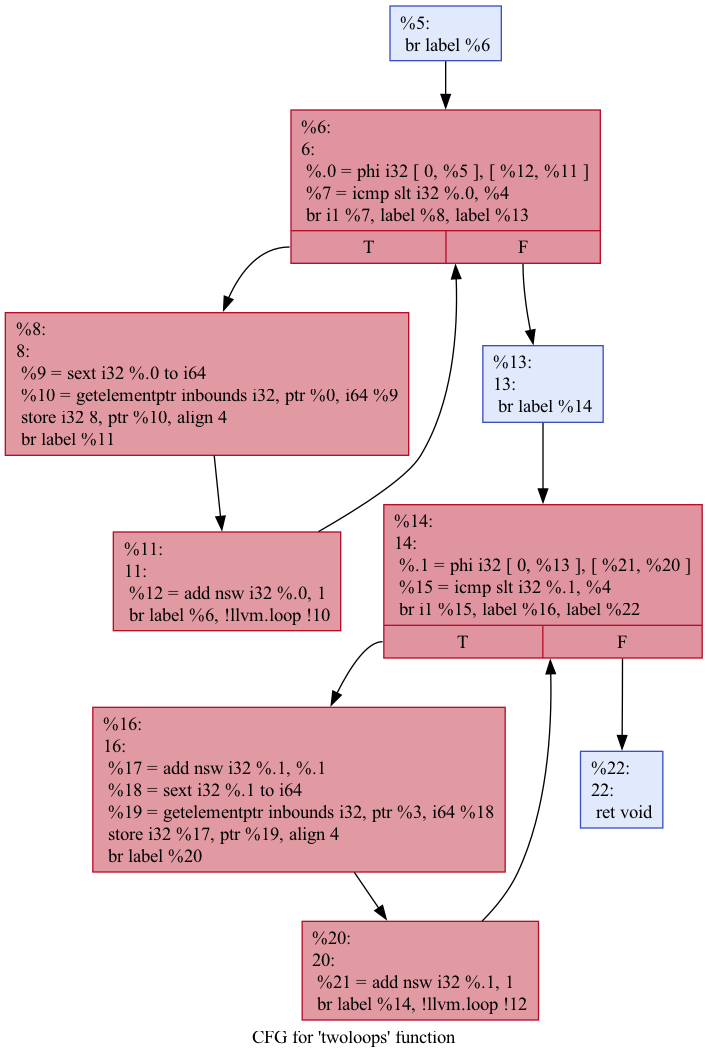
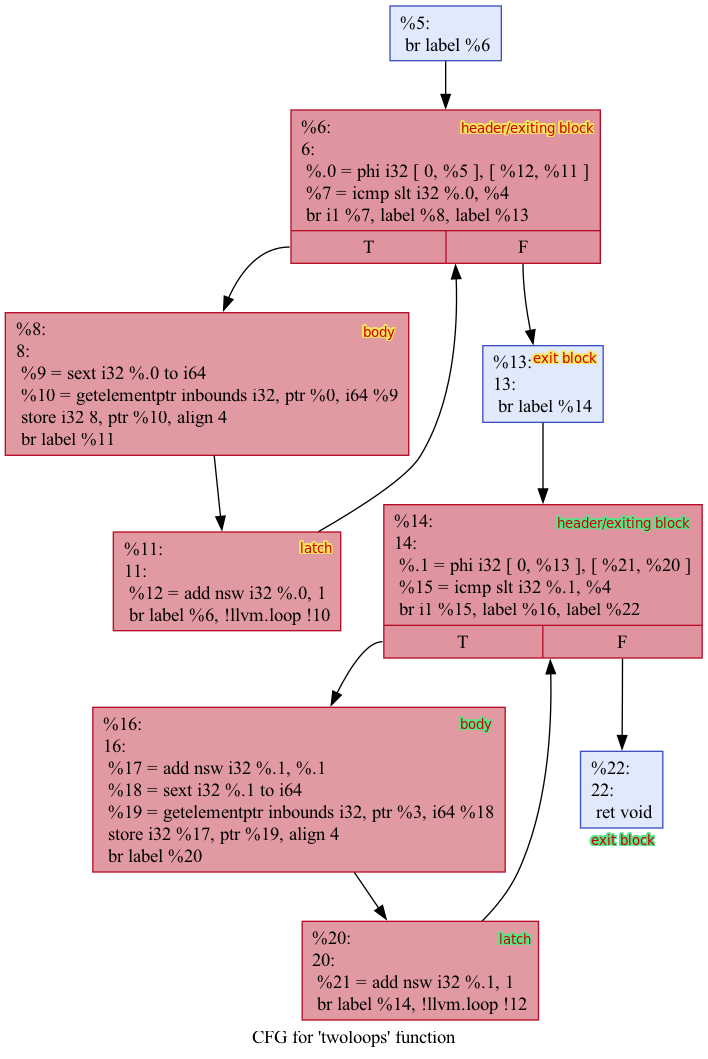
Add definitive version of Loop Fusion Pass on LoopPasses.cpp

diff --git a/Back-End/Esercitazioni/Assignment_4/LoopPasses.cpp b/Back-End/Esercitazioni/Assignment_4/LoopPasses.cpp
@@ -1,4 +1,4 @@
-#include "llvm/Transforms/Utils/LoopFusionPass.h"
+#include "llvm/Transforms/Utils/LoopPasses.h"
 #include "llvm/Analysis/DependenceAnalysis.h"
 #include "llvm/Analysis/DominanceFrontier.h"
 #include "llvm/Analysis/LoopInfo.h"
@@ -250,7 +250,7 @@ Loop *fuseLoop(Loop *L1, Loop *L2) {
   return L1;
 }
 
-PreservedAnalyses LoopFusionPass::run(Function &F,
+PreservedAnalyses LoopPasses::run(Function &F,
                                       FunctionAnalysisManager &AM) {
   outs() << "\n";
   outs() << "\nStart loop fusion opt...\n";

diff --git a/Back-End/Esercitazioni/Assignment_4/README.md b/Back-End/Esercitazioni/Assignment_4/README.md
@@ -79,8 +79,13 @@ iteration m+n (where n > 0).
 
 ### 2.Code transformation (⚙)
 
-1. Modify uses of induction variable
-2. Modify CFG (body of the second loop must be connected with the body of the first loop).
+<img src="img/trasformation.png" alt="trasformation" width=30%><br>
+
+1.Modify uses of induction variable. Induction variable of Loop2 became the induction variable of Loop1.<br>
+   `(for i=0 ; i<N ; i++)`  -> <b>i=0</b> is the induction variable. 
+<br><br>
+2.Modify CFG (body of the second loop must be connected with the body of the first loop).
+
 
 <br><br>
 
